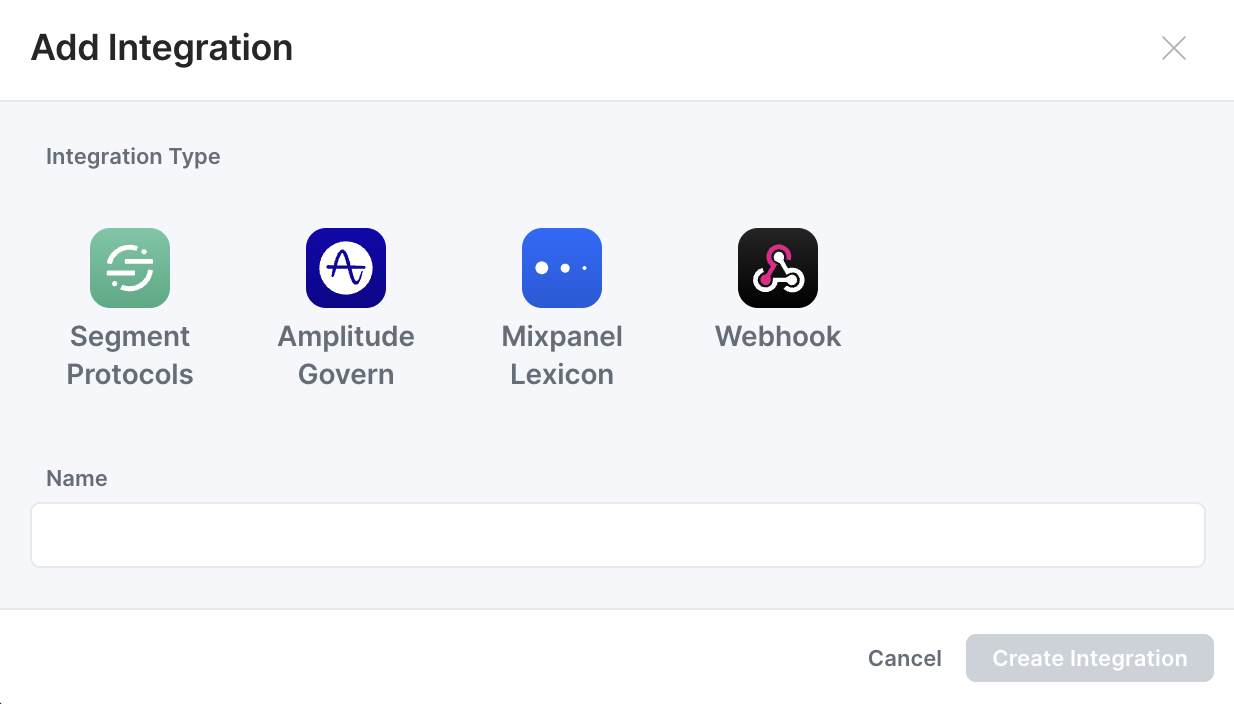
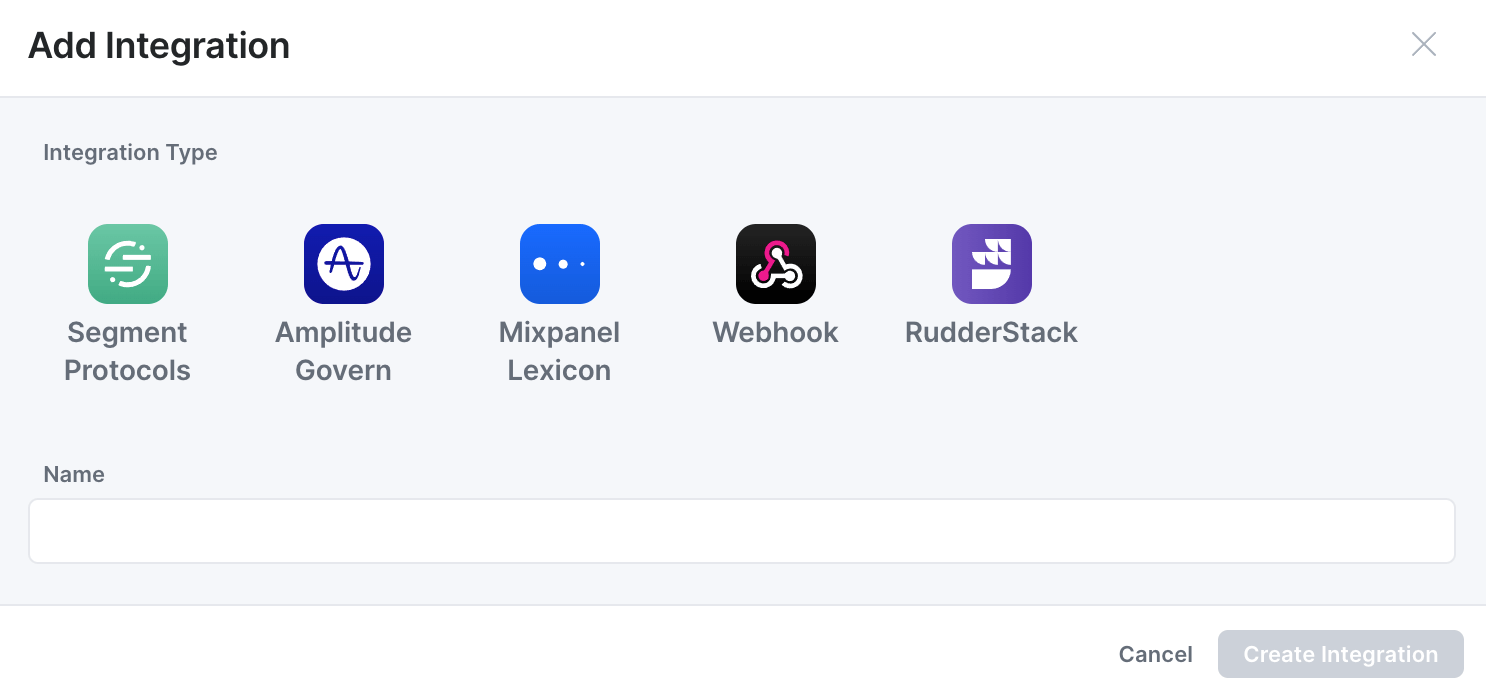
Rudder publishing

diff --git a/pages/index.tsx b/pages/index.tsx
@@ -206,7 +206,7 @@ const LandingPage: FunctionComponent = () => {
         </h3>
         <p className={styles.text}>
           You can set up your tracking plan to be automatically published to
-          Segment Protocols, Amplitude and Mixpanel every time a branch is
+          Segment Protocols, RudderStack, Amplitude and Mixpanel every time a branch is
           merged. We also provide a webhook for advanced automation.
         </p>
         <div className={styles.row}>
